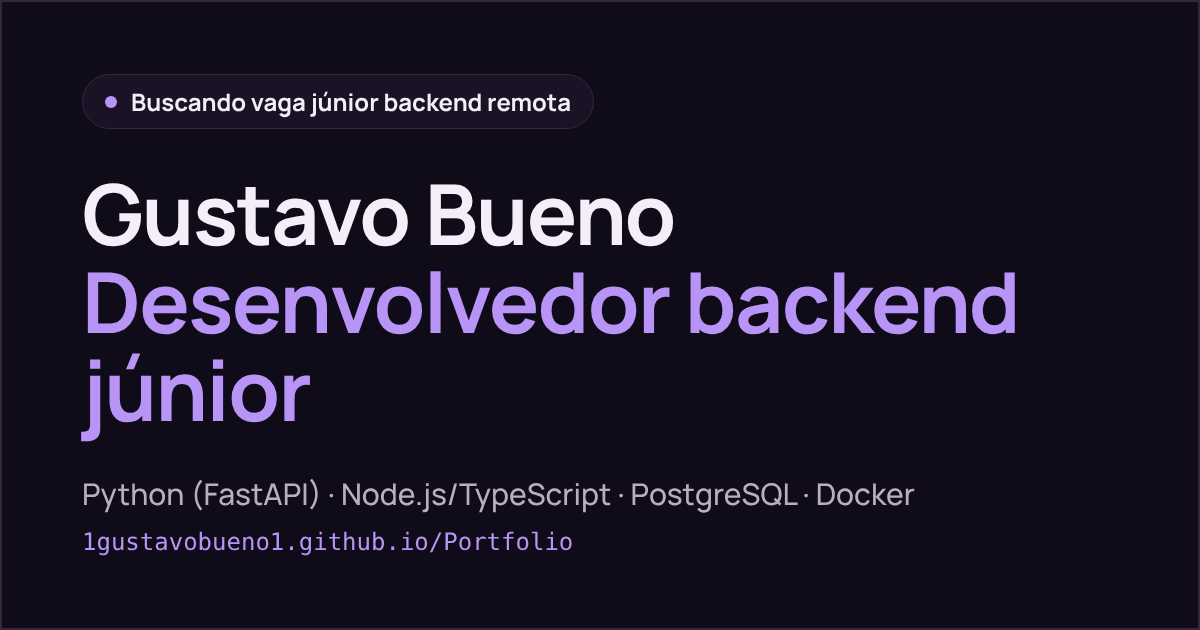
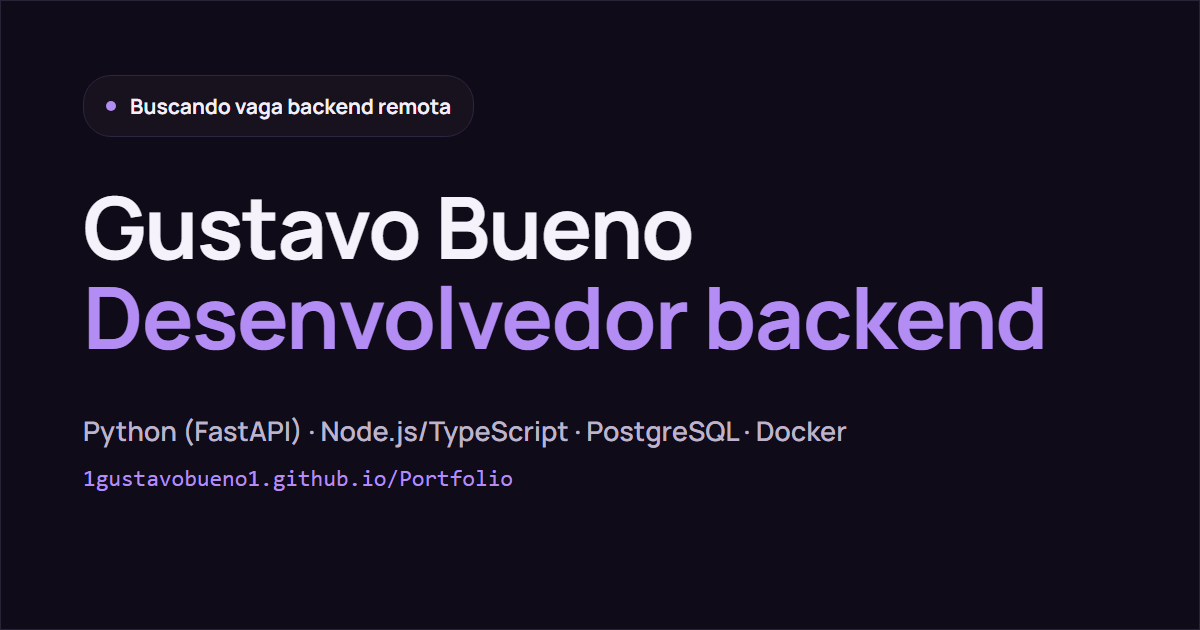
Remove menções a senioridade (júnior/estágio) do portfólio

diff --git a/index.html b/index.html
@@ -3,8 +3,8 @@
 <head>
   <meta charset="UTF-8" />
   <meta name="viewport" content="width=device-width, initial-scale=1" />
-  <title>Gustavo Bueno | Desenvolvedor backend júnior (Python, Node.js)</title>
-  <meta name="description" content="Portfólio de Gustavo Bueno, desenvolvedor backend júnior: APIs com Python (FastAPI) e Node.js/TypeScript, PostgreSQL, Docker e testes automatizados." />
+  <title>Gustavo Bueno | Desenvolvedor backend (Python, Node.js)</title>
+  <meta name="description" content="Portfólio de Gustavo Bueno, desenvolvedor backend: APIs com Python (FastAPI) e Node.js/TypeScript, PostgreSQL, Docker e testes automatizados." />
   <meta name="author" content="Gustavo Bueno da Silva" />
   <meta name="theme-color" content="#ffffff" />
   <meta name="color-scheme" content="light" />
@@ -13,12 +13,12 @@
   <meta property="og:type" content="website" />
   <meta property="og:locale" content="pt_BR" />
   <meta property="og:url" content="https://1gustavobueno1.github.io/Portfolio/" />
-  <meta property="og:title" content="Gustavo Bueno | Desenvolvedor backend júnior" />
+  <meta property="og:title" content="Gustavo Bueno | Desenvolvedor backend" />
   <meta property="og:description" content="APIs com Python (FastAPI) e Node.js/TypeScript, PostgreSQL, Docker e testes automatizados. Veja os projetos." />
   <meta property="og:image" content="https://1gustavobueno1.github.io/Portfolio/assets/og-image.png" />
   <meta property="og:image:width" content="1200" />
   <meta property="og:image:height" content="630" />
-  <meta property="og:image:alt" content="Gustavo Bueno, desenvolvedor backend júnior" />
+  <meta property="og:image:alt" content="Gustavo Bueno, desenvolvedor backend" />
   <meta name="twitter:card" content="summary_large_image" />
 
   <link rel="icon" href="assets/favicon.svg" type="image/svg+xml" />
@@ -49,10 +49,10 @@
         <span class="linha linha--1"><span>Gustavo</span></span>
         <span class="linha linha--2"><span>Bueno</span></span>
       </h1>
-      <p class="abertura__cargo"><span class="abertura__parte">Desenvolvedor backend júnior</span> <span class="abertura__sep" aria-hidden="true">·</span> <span class="abertura__parte">Python e Node.js</span></p>
+      <p class="abertura__cargo"><span class="abertura__parte">Desenvolvedor backend</span> <span class="abertura__sep" aria-hidden="true">·</span> <span class="abertura__parte">Python e Node.js</span></p>
       <div class="abertura__meio">
         <p class="abertura__texto">
-          Construo APIs com Python (FastAPI) e Node.js com TypeScript, usando PostgreSQL, Docker e testes automatizados. Programo desde o fim de 2024. Buscando vaga júnior backend remota.
+          Construo APIs com Python (FastAPI) e Node.js com TypeScript, usando PostgreSQL, Docker e testes automatizados. Programo desde o fim de 2024. Buscando vaga backend remota.
         </p>
         <div class="abertura__acoes">
           <a class="botao" href="#projetos">Ver projetos</a>
@@ -61,7 +61,7 @@
       </div>
       <ul class="abertura__fatos" aria-label="Resumo">
         <li>Lebon Régis, SC</li>
-        <li>Vaga remota ou estágio</li>
+        <li>Vaga remota</li>
         <li>Desenvolvimento de Software, SC Tec/Senai</li>
       </ul>
     </section>
@@ -441,7 +441,7 @@ for indice in range(1, 43):
       <div class="largura">
         <h2 class="sobre__titulo" id="titulo-sobre" data-revelar>Sobre mim</h2>
         <p class="sobre__texto" data-revelar>
-          Sou Gustavo Bueno da Silva, desenvolvedor backend autodidata, e programo em Python desde o fim de 2024. Busco minha primeira vaga júnior de backend 100% remota ou um estágio remoto em tecnologia.
+          Sou Gustavo Bueno da Silva, desenvolvedor backend autodidata, e programo em Python desde o fim de 2024. Busco uma vaga de backend 100% remota.
         </p>
         <div class="sobre__mosaico">
           <div class="sobre__azulejo" data-revelar>
@@ -507,7 +507,7 @@ for indice in range(1, 43):
       <div class="rodape__colunas">
         <ul>
           <li>Gustavo Bueno</li>
-          <li>Desenvolvedor backend júnior</li>
+          <li>Desenvolvedor backend</li>
           <li>Lebon Régis, SC, Brasil</li>
         </ul>
         <ul>
